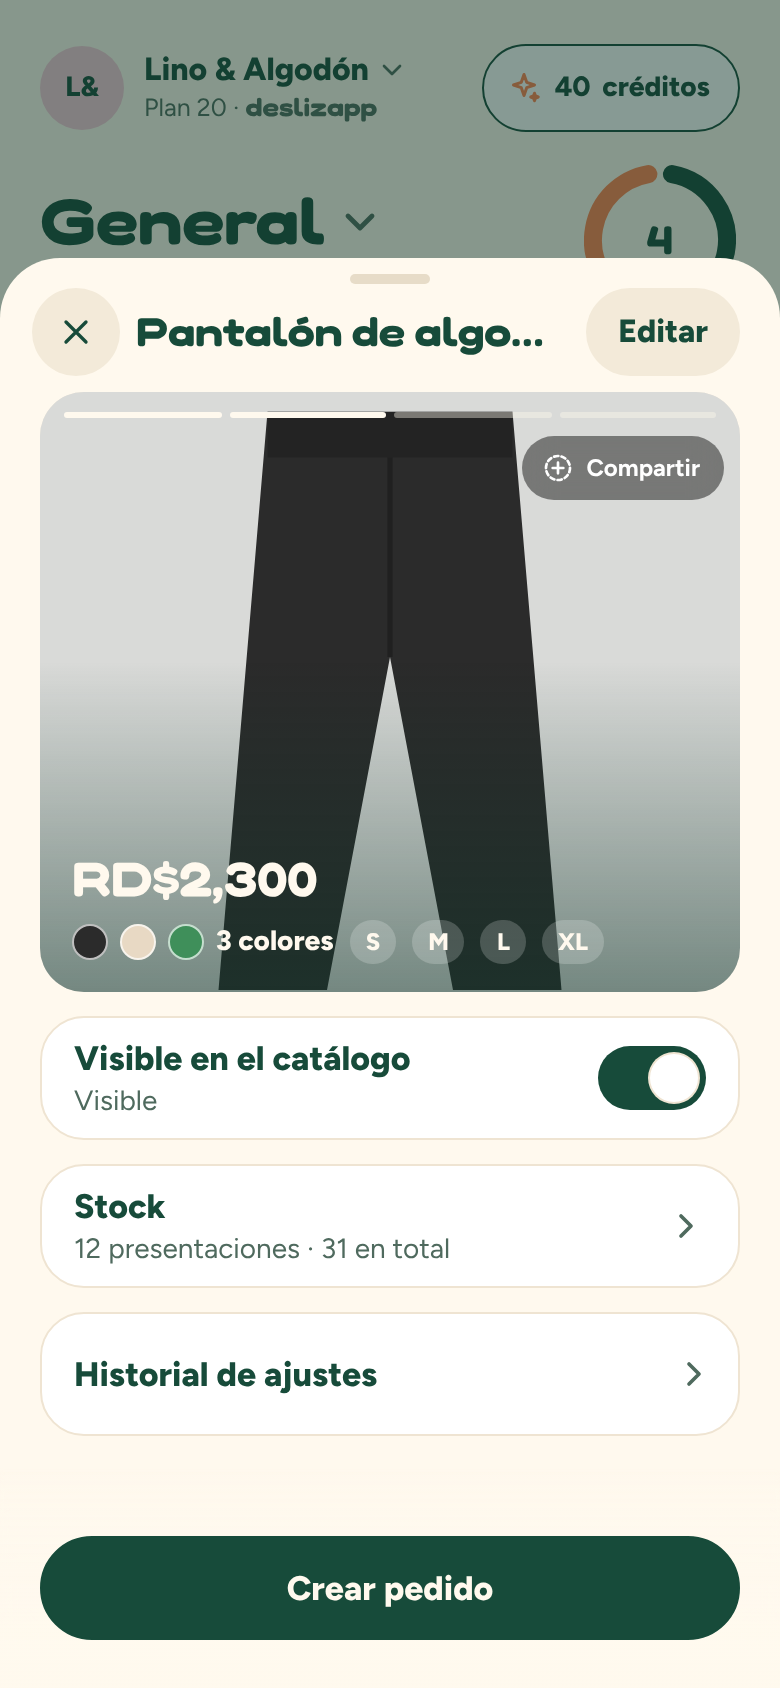
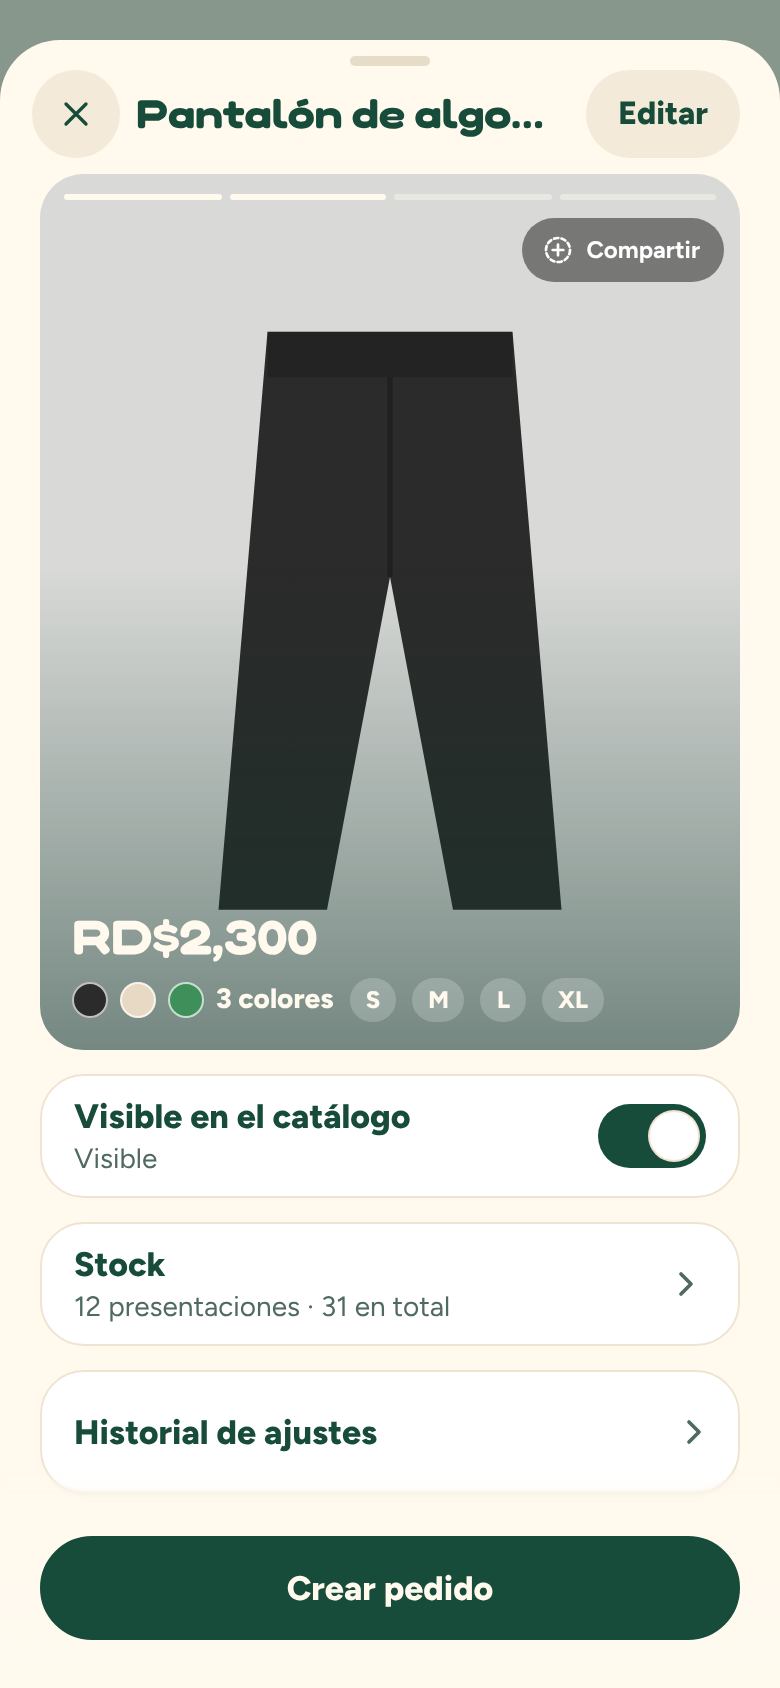
Ver producto: la vista previa en 4:5, como los posts del catálogo
Pedido de Lewis tras probar #125: la foto de «Ver producto» deja los 300 px fijos
y usa la proporción del feed (4:5, a todo el ancho, fotos en cover). La hoja sigue
con altura auto; con el stock abierto desplaza y el pie no tapa nada.

Claude-Session: https://claude.ai/code/session_01MrEaaa6uvSff6aYZRPm6oj

diff --git a/components/catalogo/hoja-producto.tsx b/components/catalogo/hoja-producto.tsx
@@ -392,7 +392,7 @@ function VistaPrevia({ producto, precio, alCompartir }: { producto: Producto; pr
   const otras = producto.opciones.filter((o) => !esEjeColor(o.nombre));
   const conFoto = fotos.length > 0;
   return (
-    <div className="relative h-[300px] w-full shrink-0 overflow-hidden rounded-radio-l bg-superficie-hundida" data-vista-previa-producto="">
+    <div className="relative aspect-[4/5] w-full shrink-0 overflow-hidden rounded-radio-l bg-superficie-hundida" data-vista-previa-producto="">
       {conFoto ? (
         <div
           className="flex size-full snap-x snap-mandatory overflow-x-auto overscroll-x-contain [scrollbar-width:none] [&::-webkit-scrollbar]:hidden"

diff --git a/docs/04-pantallas.md b/docs/04-pantallas.md
@@ -248,7 +248,7 @@ en el prototipo); precios de producto, cantidades y nombres, en Figtree.
 
 **Acciones:**
 - Tocar "+ Producto" → crear producto (la historia, ver «Crear producto (historia)»).
-- Tocar una tarjeta → **«Ver producto»** (`HojaVistaProducto`, 13 oct 2026, referencia `referencias/editar-producto/Vista-A.dc.html`): altura según su contenido. Cabecera: ✕ a la izquierda, el nombre (elipsis) y **«Editar»** como píldora (mismo fondo que la ✕, 44 px; pasa por el aviso de cambios sin guardar y lleva a `/catalogo/[id]/editar`, que sustituye a esta hoja). Vista previa grande con **todas las fotos** (carrusel deslizable con las barras tipo historia; la de la foto que se ve, llena) y, sobre un degradado, el precio (con la promo tachada), «Agotado» y las presentaciones (colores como puntos, tallas como pastillas); sin foto, la inicial. Arriba a la derecha de la foto, bajo las barras, la píldora de vidrio **«Compartir»** abre «Súbelo a tu estado» (`HojaHistoria`). Si hay lista de espera, la franja «N personas lo esperan» (abre la lista como pantalla interna). Debajo: Visible en el catálogo → **Stock plegable** (empieza **siempre cerrado**; abierto, − / + por presentación hasta 3, uno solo sin presentaciones; con más de 3, abrirlo lleva al Inventario de editar, `?abrir=stock`) → Historial de ajustes (pantalla interna con «‹»). Al abrir el stock la hoja crece al instante (sin animar la altura). Pie: solo **«Crear pedido»** a todo el ancho; con stock sin guardar, «Descartar» y «Guardar cambios».
+- Tocar una tarjeta → **«Ver producto»** (`HojaVistaProducto`, 13 oct 2026, referencia `referencias/editar-producto/Vista-A.dc.html`): altura según su contenido. Cabecera: ✕ a la izquierda, el nombre (elipsis) y **«Editar»** como píldora (mismo fondo que la ✕, 44 px; pasa por el aviso de cambios sin guardar y lleva a `/catalogo/[id]/editar`, que sustituye a esta hoja). Vista previa grande en la proporción de los posts del feed del catálogo (**4:5**, a todo el ancho; las fotos en `cover`) con **todas las fotos** (carrusel deslizable con las barras tipo historia; la de la foto que se ve, llena) y, sobre un degradado, el precio (con la promo tachada), «Agotado» y las presentaciones (colores como puntos, tallas como pastillas); sin foto, la inicial. Arriba a la derecha de la foto, bajo las barras, la píldora de vidrio **«Compartir»** abre «Súbelo a tu estado» (`HojaHistoria`). Si hay lista de espera, la franja «N personas lo esperan» (abre la lista como pantalla interna). Debajo: Visible en el catálogo → **Stock plegable** (empieza **siempre cerrado**; abierto, − / + por presentación hasta 3, uno solo sin presentaciones; con más de 3, abrirlo lleva al Inventario de editar, `?abrir=stock`) → Historial de ajustes (pantalla interna con «‹»). Al abrir el stock la hoja crece al instante (sin animar la altura). Pie: solo **«Crear pedido»** a todo el ancho; con stock sin guardar, «Descartar» y «Guardar cambios».
 - «Crear pedido» abre el formulario manual existente con ese producto y una unidad preseleccionados si hay stock. El pedido no se guarda ni descuenta stock hasta completar el flujo; al crearlo queda «Por despachar» y el inventario baja una sola vez al despacharlo. Cancelar un pedido por despachar no toca el stock; deshacer un despacho devuelve las unidades.
 - Todo producto lleva su cantidad (9 oct 2026): la interfaz ya no ofrece «No llevo la cuenta». La base sigue aceptando `stock = null` (sin migración; hoy 0 de 17 productos lo usan): si un producto viejo lo trae, se muestra como 0 con el aviso «Sin cantidad guardada», sin botones de ajuste (el ajuste atómico necesita una cantidad de base). «Se puede pedir aunque no haya» lo cubre «Por encargo».
 - En «Ver producto», +/− del stock plegable modifica una propuesta, nunca guarda ni baja de cero; el pie dice «Añadirás 1 unidad» / «Retirarás N unidades» y cambia a «Descartar» + «Guardar cambios». En editar, el stock es una fila que abre su pantalla (ver «Editar producto (resumen)»); «Guardar cambios» confirma ficha y ajuste juntos.
